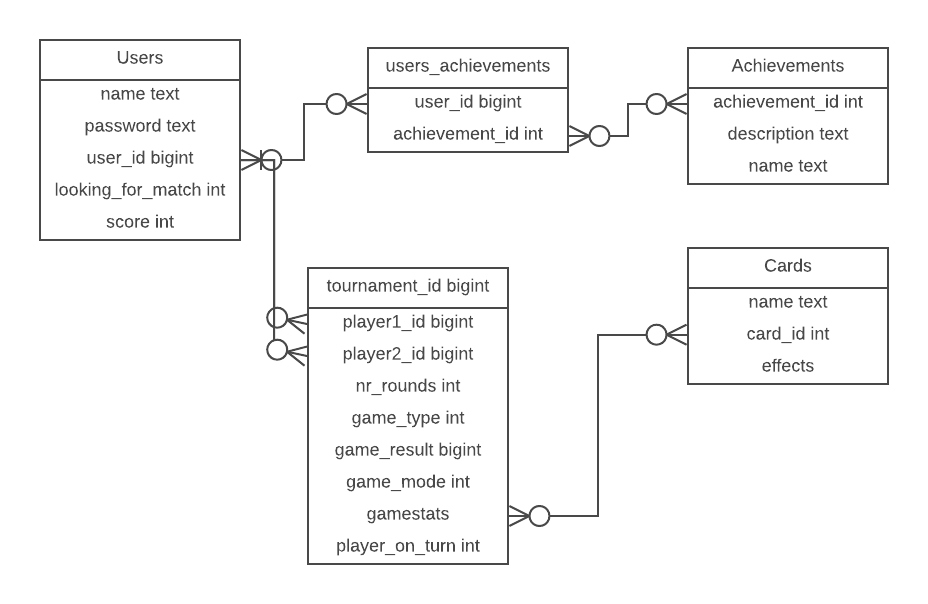
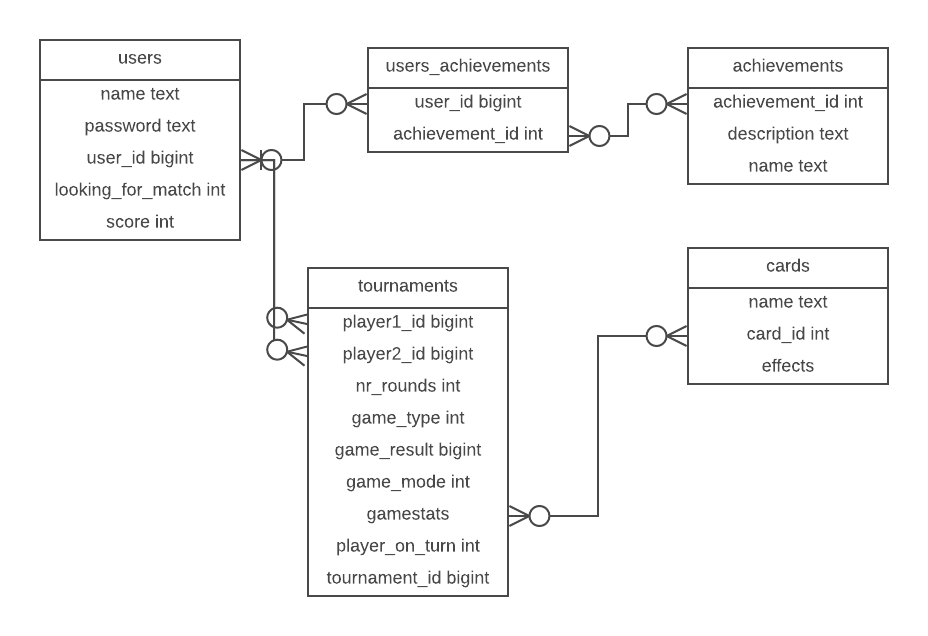
More rewording + image fixes

diff --git a/doc/GameSpec.md b/doc/GameSpec.md
@@ -10,22 +10,16 @@ Cieľovou skupinou sú milovníci nostalgie a starí hráči Mravencov ako aj no
 
 ## Use cases
 
-![UseCase](img/UC.png)
+V aplikácii existuje iba jeden druh používateľa - hráč.
 
-#### Módy hry
-   - **Klasický** Vyhráva ten, kto prvý postaví hrad výšky 100 alebo zničí súperov hrad na 0.
-   - **Hardcore** Vyhráva hráč, ktorého hrad dosiahne výšku o 100 viac ako súperov.
-
-#### Typy hry
-  - **Korešpondenčná** - dá sa hrať viacero hier naraz. Ťahy sú bez obmedzenia.
-  - **Real time** - musí sa skončiť a dá sa hrať iba jedna naraz.
+![UseCase](img/UC.jpg)
 
 #### Fázy aplikácie
   - **Úvodná prihlasovacia obrazovka** Používateľ sa môže registrovať či prihlásiť.
-  - **Game lobby** Hráč vidí svoje rozohraté korešpondenčné partie, rebríček top hráčov a svoje achievementy či informácie o poslednej dokončenej partií. Môže tiež iniciovať novú hru.
+  - **Game lobby** Hráč vidí svoje rozohraté korešpondenčné partie, rebríček top hráčov a svoje achievementy či informácie o poslednej dokončenej partií. Môže tiež iniciovať novú hru podľa svojho výberu alebo odohrať ťah v niektorej zo svojich korešpondenčných partií.
   - **Hracia obrazovka** Spoločná pre každý mód aj druh hry. Tu hráč vykonáva svoje ťahy. Rozhranie bude pravdepodobne rovnaké ako v pôvodných mravencoch, s tým rozdielom, že grafika bude lepšia.
 
-Skóre bude implementované pravdepodobne systémom +2 za výhru, +1 za remízu a -1 za prehru. Samotná logika hry vrátane sady kariet bude rovnaká ako v originálnych Mravencoch.
+Samotná logika hry vrátane sady kariet bude rovnaká ako v originálnych Mravencoch. Znamené to, že každý hráč má na začiatku po 8 kariet a počiatočné množstvo surovín. Hráči sa na ťahoch striedajú. Pred každým ťahom sa hráčovi pripočíta adekvátne množstvo surovín podľa toho, aké zdroje má. Na ťahu môže hráč zahrať (ak má dostatok surovín) alebo odložiť jednu zo svojich kariet a dostať za ňu náhradnú. Hráč môže počas svojho ťahu aj ponúknuť remízu, ktorou sa partia skončí, ak sa na nej obaja hráči dohodnú. Za odohraté partie dostávajú hráči skóre, na základe ktorého sa vypočítava ich umiestnenie v tabuľke. Skóre bude implementované pravdepodobne systémom +2 za výhru, +1 za remízu a -1 za prehru, pričom tabuľka bude obsahovať aj informácie o počte prehier, výhier a remíz. Okrem skóre budú hráči na základe svojej hry získavať aj achievementy.
 
 #### Zoznam plánovaných achievementov
 
@@ -59,7 +53,7 @@ Skóre bude implementované pravdepodobne systémom +2 za výhru, +1 za remízu 
   - Použitý Babylon
   - 5 mágov v jednej hre
   - 5 vojakov v jednej hre
-  - 5 stavitelov v jednej hre
+  - 5 staviteľov v jednej hre
   - 10 prehier
   - 50 prehier
   - 100 prehier
@@ -74,19 +68,26 @@ Skóre bude implementované pravdepodobne systémom +2 za výhru, +1 za remízu 
   - Skóre nad 100
   - Skóre nad 1000
 
+#### Módy hry
+   - **Klasický** Vyhráva ten, kto prvý postaví hrad výšky 100 alebo zničí súperov hrad na 0.
+   - **Hardcore** Vyhráva hráč, ktorého hrad dosiahne výšku o 100 viac ako súperov.
+
+#### Typy hry
+  - **Korešpondenčná** - dá sa hrať viacero hier naraz. Ťahy sú bez obmedzenia.
+  - **Real time** - musí sa skončiť a dá sa hrať iba jedna naraz.
 
 
 ## Databáza
 
 ![EntityRelation](img/ER.png)
 
-Tabuľka userov spolu so skóre a záležitosťami pre matchmaking.
+Databáza bude obsahovať nasledujúcich 5 tabuliek:
 
-Tabuľka achievementov a tabuľka many to many users_achievements.
-
-Tabuľka zápasov - či je zápas korešpondenčný, aktuálny stav hry, kto je na ťahu a pod.
-
-Tabuľka kariet - karta, jej vzácnosť a vlastnosti. Umožňuje jednoducho meniť balíčky bez väčších zmien kódu
+  - **users** Obsahuje prihlasovacie údaje používateľov spolu s informáciami o skóre a údajmi pomáhajúcimi pri hľadaní partnera do hry.
+  - **achievements** Obsahuje podstatné informácie pre každý achievement. Vďaka tejto tabuľke je možné achievementy meniť a pridávať bez väčších zásahov do kódu.
+  - **users_achievements** tabuľka určená na uchovávanie vzťahov medzi používateľmi a ich získanými achievementami
+  - **cards** Obsahuje informácie o každej karte. Pomocou card_id sa pravdepodobne budú identifikovať resources pre kartu, ako sú zvuky či obrázky. Samotný spôsob reprezentácie efektov danej karty v databáze ešte nie je jednoznačne určený - v závislosti od toho, ktorý spôsob bude výhodnejší môžem efekty rozdeliť do viacerých stĺpcov, alebo vhodnú dátovú štruktúru s ich reprezentáciou.  serializovať a uchovať v databáze ako jeden string. Motiváciou pre túto tabuľku je opäť flexibilita v menení a pridávaní kariet.
+  - **tournaments** Obsahuje informácie o prebiehajúcich alebo ukončených hrách. Pre každú hru obsahuje aktuálny stav - tj. počet zdrojov, surovín a aktuálne držané karty pre každého hráča. Spôsob uloženia týchto dát je ešte stále otázny, rovnako ako pri efektoch kariet.
 
 ## Použité technológie
 
@@ -96,12 +97,12 @@ Z prehliadačov plánujem podporovať najmä nové verzie Firefoxu a Chromu.
 
 ## Časový plán
 
-  - cca. do *3.4.* spustiť všetky potrebné komponenty
-  - cca do *15.4.* implementovať základnú logiku hry, komunikáciu so serverom
-  - cca fo *14.5.* doladiť grafiku, zvuky, gameplay a pod.
+  - cca. do *3.4.* spustiť všetky potrebné komponenty na vývoj
+  - cca do *15.4.* implementovať základnú logiku hry a komunikáciu so serverom
+  - cca do *14.5.* doladiť grafiku, zvuky, vybalancovať gameplay a pod.
 
 ## Možné rozšírenia
 
-Podobne ako v rôznych iných hrách založených na Arcomage je možné pridaním dodatkov do samotnej hernej logiky zvýšiť náročnosť a komplexnosť hry. Tieto dodatky sú vo forme pridania kariet do hracieho balíčka, pričom karty sú rôznym spôsobom kombinovateľné, obsahujú conditions (efekt karty závisí od predch. hracej karty či herného stavu) a pod. Taktiež je možné pridať nové herné staty či zmeniť výherné kritériá.
+Podobne ako v rôznych iných hrách založených na Arcomage je možné pridaním dodatkov do samotnej hernej logiky zvýšiť náročnosť a komplexnosť hry. Tieto dodatky sú vo forme pridania kariet do hracieho balíčka, pričom nové karty sú rôznym spôsobom kombinovateľné, obsahujú conditions (efekt karty závisí od predch. hracej karty či herného stavu) a pod. Taktiež je možné pridať nové herné staty či zmeniť výherné kritériá.
 
 V záujme motivovania hráčov je možné pridať ďalšie achievementy. Taktiež je možné zlepšiť správanie systému, keď je nedostatok hráčov online. V prípade, že nejaký hráč čaká na oponenta určitý čas a stále nie je možné mu niekoho prideliť, mohol by mu server prideliť AI oponenta. Možnosťou je aj umožniť hráčom vyzývať sa navzájom, nie len pomocou náhodného pridelenia serverom. Rebríčky by mohli byť implementované pomocou ELO systému a rozdelené podľa lokalizácie hráča.
